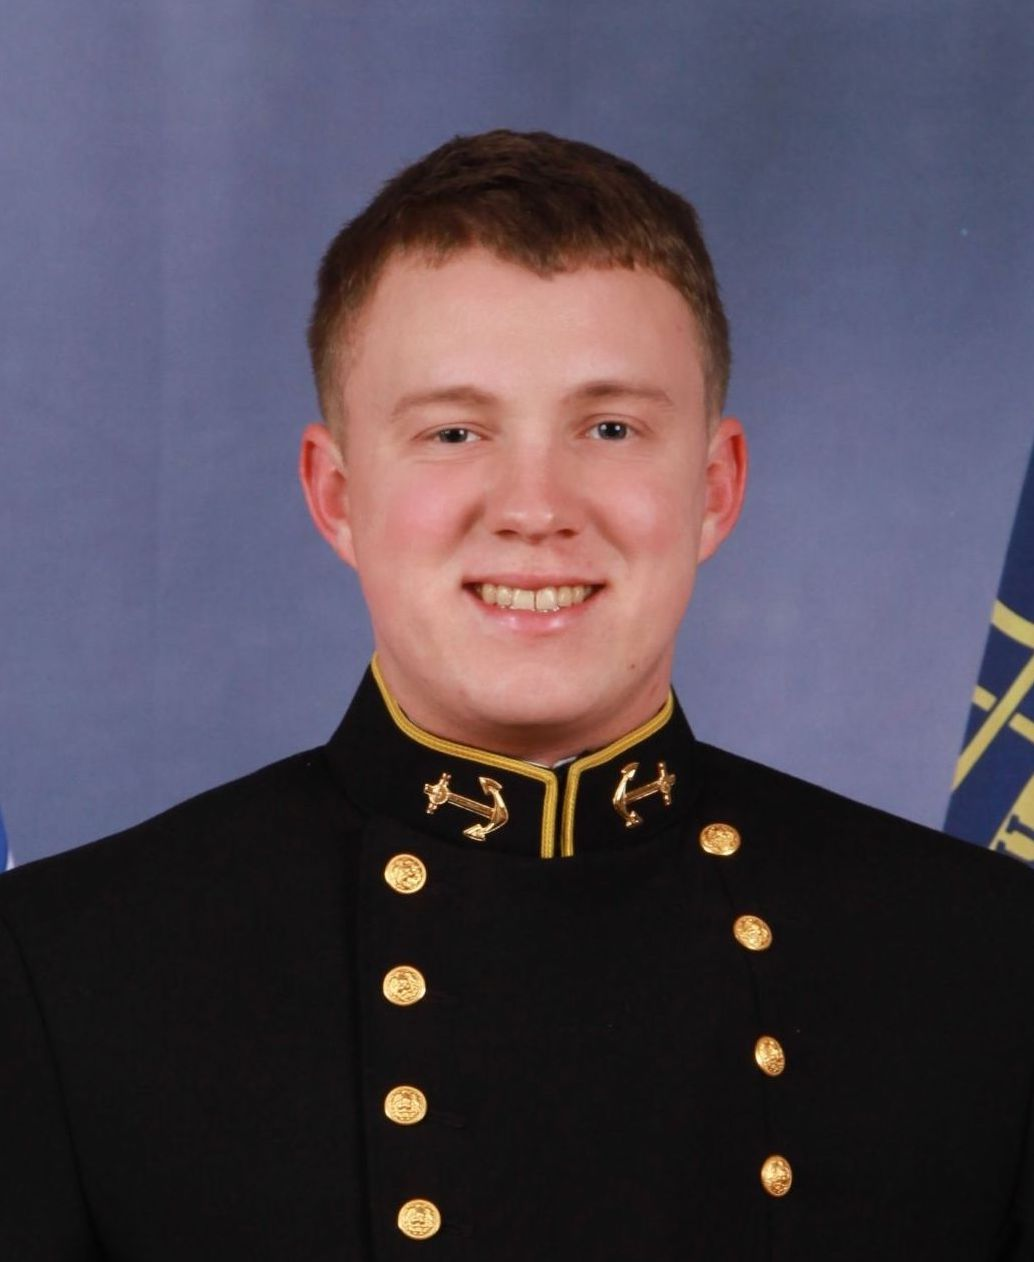
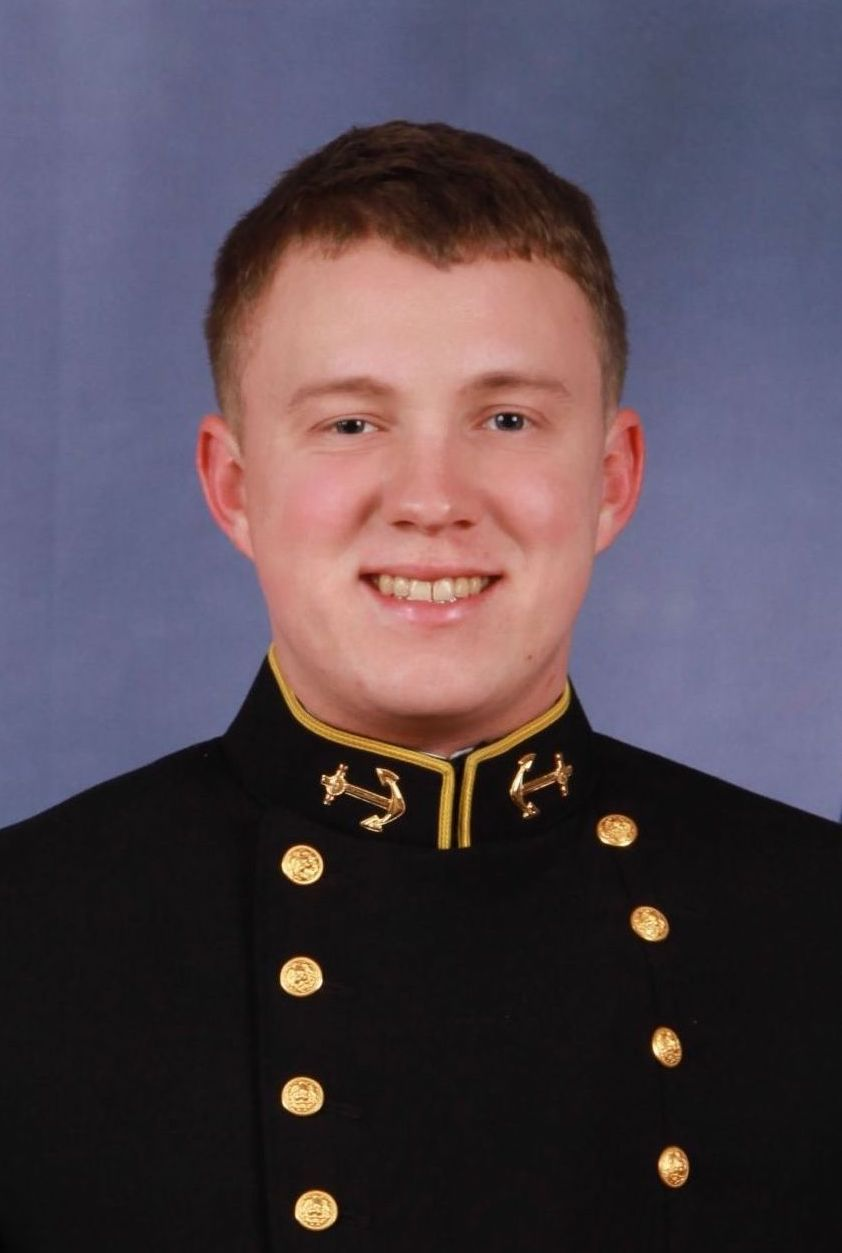
updated portrait

diff --git a/index.html b/index.html
@@ -131,7 +131,7 @@
         <div class="row">
           <div class="col-lg-2 mx-auto"></div>
           <div class="col-lg-3 mx-auto">
-            <img src="img/new_portrait.jpg" class="rounded img-thumbnail" style="display:block;margin-left:auto;margin-right:auto;" />
+	    <img src="img/new_portrait.jpg" class="rounded img-thumbnail" style="height:375px;display:block;margin-left:auto;margin-right:auto;" />
           </div>
 
           <div class="col-lg-5 mx-auto">
